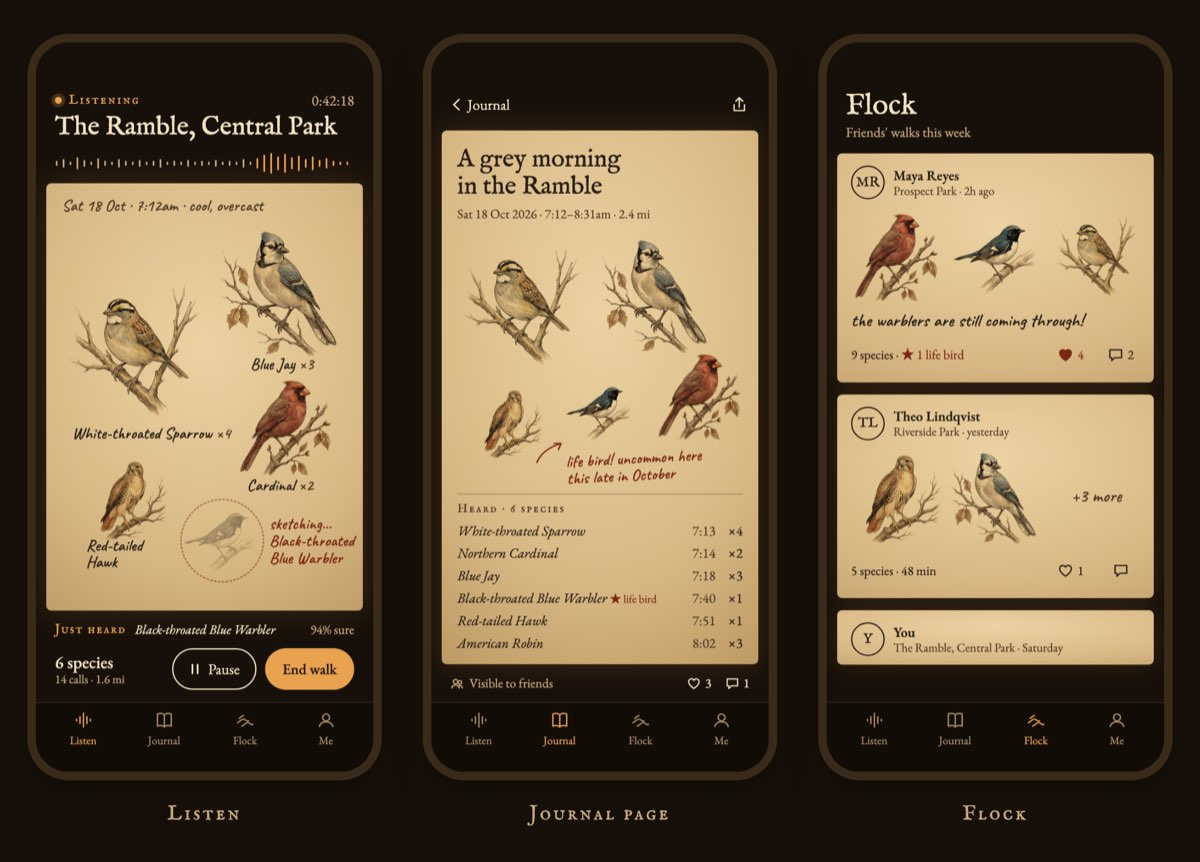
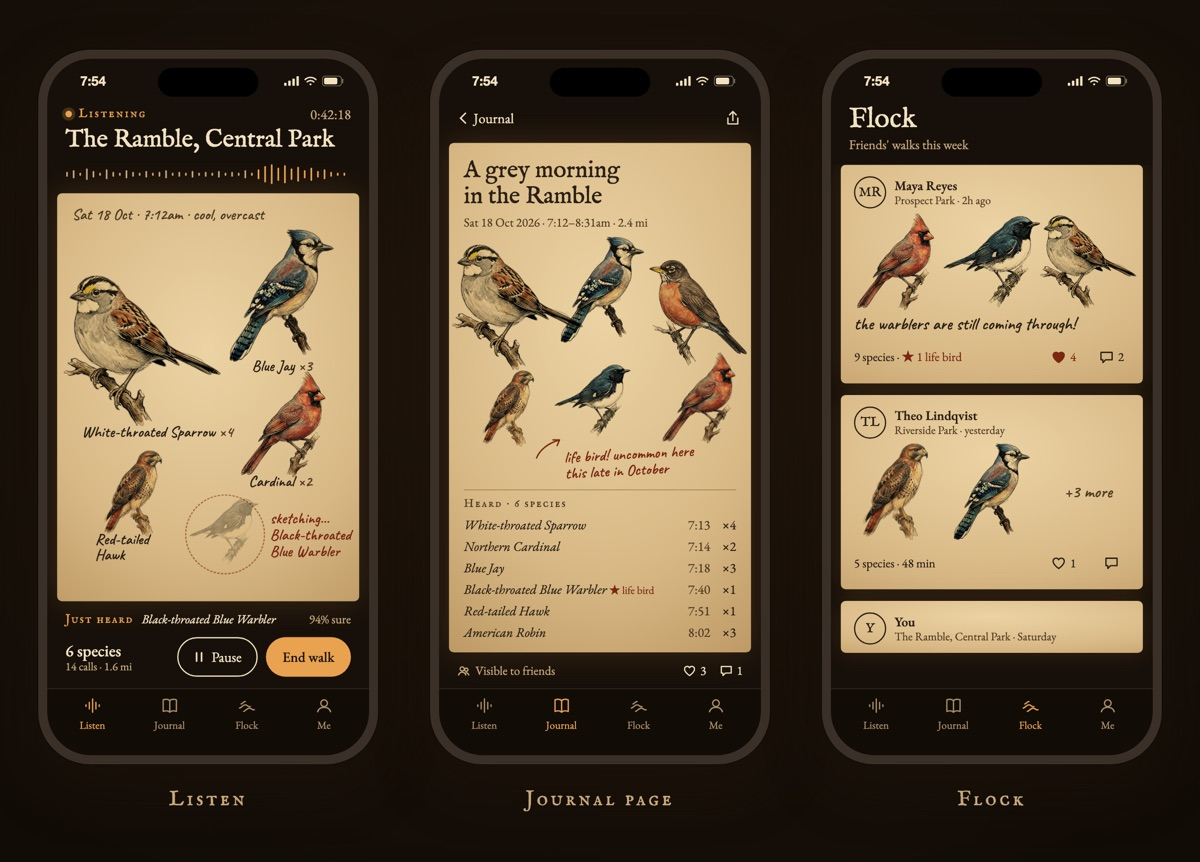
README: new hero and mockup images with the real bird art; plainer wording (#15)
The README images predated the current design: yellowed parchment and the
old trial birds. The new ones use the lightened Parchment theme, By
Candlelight, and the 50 real cutouts from art/birds/cutouts.

- hero-light/dark.jpg: a finished journal page for a morning in the
  Ramble. Birds sized by call count, a red-ink flourish on the rare
  warbler, species list with times.
- mockups-light/dark.jpg: Listen, Journal and Flock rendered from
  design/mockups/*.dc.html with real cutouts in place of the canvas
  blobs. The Journal page now draws the robin it lists.
- README: drop stock phrasing and overclaims, describe the new images in
  alt text, bring Status up to date with todo.md (confidence bar, walk
  flow, SwiftData and bird art are done; the gate is built but off).

Changed region(s): [[0.0, 0.0302, 0.6475, 0.9652], [0.6783, 0.0302, 0.9867, 0.9652], [0.8325, 0.8144, 0.8633, 0.8445]]

diff --git a/README.md b/README.md
@@ -20,27 +20,27 @@
 <p align="center">
   <picture>
     <source media="(prefers-color-scheme: dark)" srcset="docs/assets/hero-dark.jpg">
-    <img src="docs/assets/hero-light.jpg" alt="A journal page on parchment: five hand-drawn birds from a morning walk, each labeled by hand with how many times it was heard, beside a list of the species." width="880">
+    <img src="docs/assets/hero-light.jpg" alt="Journal page for a morning walk in the Ramble, Central Park, on 18 October: six ink-and-watercolor birds with handwritten labels and call counts, the White-throated Sparrow (heard 6 times) drawn largest. A red-ink note beside the Black-throated Blue Warbler reads &quot;life bird! uncommon here this late in October&quot;. A species list with times runs down the left side." width="880">
   </picture>
   <br>
-  <sub>Concept art for a journal page. The bird illustrations are the project's own; the page itself is still being built.</sub>
+  <sub>A design mockup of a journal page, made with the app's own bird drawings. The app doesn't draw this page yet.</sub>
 </p>
 
 ## What it does
 
-Start a walk and put your phone in your pocket. Overheard listens through the microphone and identifies birds by their songs and calls, entirely on the phone. No audio is uploaded, and identifying birds doesn't need a network connection.
+Start a walk and put your phone in your pocket. Overheard listens through the microphone and identifies birds by their songs and calls on the phone itself. No audio is uploaded, and it works without a network connection.
 
-When you get home, the walk becomes a journal page: ink-and-watercolor drawings of every bird you heard, clustered on parchment, each one sized by how many times it sang. A handwritten red-ink note marks anything unusual for the place and season ("uncommon here this late in October"). Friends can follow each other's walks and see what turned up.
+When the walk ends, it becomes a journal page with an ink-and-watercolor drawing of each bird you heard. The more times a bird called, the bigger its drawing. A handwritten red-ink note marks a bird that's unusual for the place and season, such as "uncommon here this late in October". Friends can follow each other's walks.
 
-Overheard is free, made for friends and family, and has no ads or monetization.
+Overheard is free, made for friends and family, and has no ads or paid features.
 
 <p align="center">
   <picture>
     <source media="(prefers-color-scheme: dark)" srcset="docs/assets/mockups-dark.jpg">
-    <img src="docs/assets/mockups-light.jpg" alt="Design mockups of three screens: Listen, showing birds appearing on the page during a walk; the finished Journal page; and Flock, a feed of friends' walks." width="880">
+    <img src="docs/assets/mockups-light.jpg" alt="Three iPhone screens side by side. Listen: a walk in progress, with birds drawn on the page as they're heard and a faint Black-throated Blue Warbler inside a dashed red circle marked &quot;sketching…&quot;. Journal page: the finished walk, six birds above a list of species with times and call counts. Flock: friends' walks as cards, each with a row of their birds." width="880">
   </picture>
   <br>
-  <sub>Design mockups (<a href="design/mockups/">design/mockups/</a>), not screenshots. The app UI today is a plain detection list; this is where it's headed. Shown in the Parchment theme, or By Candlelight if your GitHub is in dark mode.</sub>
+  <sub>Design mockups from <a href="design/mockups/">design/mockups/</a>, not screenshots. The app currently shows a plain list of detections. Shown in the Parchment theme, or By Candlelight if GitHub is in dark mode.</sub>
 </p>
 
 ## How it works
@@ -56,12 +56,12 @@ flowchart LR
     confirm --> page["Journal page<br>size = number of calls"]
 ```
 
-- **Listening.** The app records 3-second clips, overlapping by 2 seconds, so a song that straddles a clip boundary is still heard whole.
-- **Identifying.** Each clip goes through [BirdNET](https://github.com/birdnet-team/BirdNET-Analyzer) v2.4, converted to Core ML and running on the phone in about 21 ms per clip on an iPhone 17 Pro.
-- **Location.** BirdNET's location model, also on the phone, estimates which of the 6,522 species it knows are likely at your position in the current week. That works anywhere in the world, and approximate location is enough.
-- **Confirming.** A species counts once a call is heard in two clips above the threshold, or once in a single clip with confidence of at least 0.70. Until then it is "being sketched" and fades if it isn't confirmed. Detections less than 2.5 s apart merge into one call, so `×3` means three separate songs.
+- **Listening.** The app takes a 3-second clip every second. Clips overlap by 2 seconds, so a song that crosses a clip boundary still fits whole in one clip.
+- **Identifying.** Each clip goes through [BirdNET](https://github.com/birdnet-team/BirdNET-Analyzer) v2.4, converted to Core ML. It takes about 21 ms per clip on an iPhone 17 Pro.
+- **Location.** BirdNET's location model, also on the phone, estimates how likely each of its 6,522 species is at your position in the current week. It works anywhere, and approximate location is enough. Species that are unlikely here need a higher confidence to count.
+- **Confirming.** A species counts once a call is heard in two clips above the threshold, or in one clip with confidence of at least 0.70. Until then it shows as "sketching…" and fades if it isn't confirmed. Detections less than 2.5 s apart merge into one call, so `×3` means three separate songs.
 
-The pipeline lives in a Swift package, [`OverheardKit`](apps/ios/OverheardKit), that runs on both iOS and macOS. The same code powers the app and the evaluation tool, so anything measured on the Mac carries over to the phone exactly.
+The pipeline is a Swift package, [`OverheardKit`](apps/ios/OverheardKit), that builds for iOS and macOS. The app and the evaluation tool run the same code, so the eval measures what ships.
 
 ## Detection quality
 
@@ -75,24 +75,25 @@ The pipeline lives in a Swift package, [`OverheardKit`](apps/ios/OverheardKit), 
 | City noise louder than the bird (−5 dB) | 75.5% | 86.5% | 0.12 |
 | Clean, location filter **off** | 79.1% | 67.4% | 0.38 |
 
-The location filter is worth about 16 points of precision: without it, most wrong answers are lookalike species from other continents.
+The location filter adds about 16 points of precision. Without it, most wrong answers are similar-sounding species from other continents.
 
-These numbers are probably optimistic. xeno-canto recordings are likely part of BirdNET's training data, and they're cleaner than a real walk through a park. Field testing is still to come. The full history of each change and its effect is in [ml/eval/README.md](ml/eval/README.md).
+These numbers are probably optimistic. xeno-canto recordings are likely part of BirdNET's training data, and they're cleaner than a real walk through a park. Field tests haven't happened yet. [ml/eval/README.md](ml/eval/README.md) records each change and what it did to these numbers.
 
 ## Status
 
-Overheard is early. Here's an honest picture, kept in sync with [todo.md](todo.md):
+Overheard is early. [todo.md](todo.md) has the full plan.
 
 **Working today**
-- On-device detection: audio capture, BirdNET audio and location models in Core ML, overlapping clips, call merging and confirmation.
-- Listening continues with the screen locked, through phone calls and when AirPods connect or disconnect (basic handling, still being verified on device).
+- On-device detection: audio capture, BirdNET audio and location models in Core ML, overlapping clips, call merging and confirmation, and a higher confidence bar for species that are unlikely at your location.
+- Listening continues with the screen locked, through phone calls and when AirPods connect or disconnect (basic handling, not yet verified on a device).
+- Starting and ending a walk, recording the route, and saving walks on the phone with SwiftData.
+- Drawings of 50 birds commonly heard in Central Park ([art/birds/](art/birds/)).
 - An evaluation harness that measures every change to detection quality.
 - CI: unit tests, an unsigned iOS build, and Python lint.
 
 **Next**
-- Better detection: a confidence bar that rises for species that are unlikely at your location, and an adaptive noise gate.
-- The walk flow, saving walks on the phone (SwiftData), the parchment UI and the journal page, with the "being sketched" reveal and rare-bird notes.
-- Field tests in Central Park, and battery measurements.
+- The parchment UI and the journal page, with the "sketching…" reveal and rare-bird notes.
+- Field tests in Central Park, and battery measurements. An adaptive noise gate is built but stays off until battery use is measured.
 
 **Later**
 - A small backend on Cloudflare Workers (Hono, D1, R2) with Sign in with Apple.
@@ -144,7 +145,7 @@ The eval needs its recordings first; [ml/eval/README.md](ml/eval/README.md) expl
 
 ## Contributing
 
-Contributions and bug reports are welcome. It's a small project, so for anything larger than a fix, please open an issue first to talk it over.
+Bug reports and pull requests are welcome. For anything bigger than a fix, please open an issue first.
 
 - Work on a branch (`feat/…`, `fix/…`, `docs/…`) and open a pull request against `main`. CI runs on every PR.
 - Format before committing:
@@ -155,14 +156,14 @@ Contributions and bug reports are welcome. It's a small project, so for anything
 - Detection logic goes in `OverheardKit` with unit tests. Measure quality changes with `overheard-eval` and include the before and after numbers in the PR.
 - UI follows [docs/design.md](docs/design.md): its colors, fonts, and rules for laying out birds on the page.
 
-[AGENTS.md](AGENTS.md) is the full guide for humans and coding agents alike, and [docs/decisions.md](docs/decisions.md) records why things are the way they are.
+[AGENTS.md](AGENTS.md) has the full conventions, for people and coding agents. [docs/decisions.md](docs/decisions.md) records each decision and the reason for it.
 
 ## Credits
 
-- **[BirdNET](https://github.com/birdnet-team/BirdNET-Analyzer)** by the K. Lisa Yang Center for Conservation Bioacoustics at the Cornell Lab of Ornithology and Chemnitz University of Technology. Overheard would not exist without it.
+- **[BirdNET](https://github.com/birdnet-team/BirdNET-Analyzer)** by the K. Lisa Yang Center for Conservation Bioacoustics at the Cornell Lab of Ornithology and Chemnitz University of Technology. Both detection models are converted from BirdNET v2.4.
 - **Species names and codes** from the [eBird/Clements taxonomy](https://ebird.org).
 - **Evaluation data** from [xeno-canto](https://xeno-canto.org) recordists and the [ESC-50](https://github.com/karolpiczak/ESC-50) environmental sound dataset.
-- **Bird illustrations** were generated for this project with Gemini 3 Pro Image ([art/model-comparison/](art/model-comparison/)).
+- **Bird illustrations** were generated for this project with Gemini 3 Pro Image and cut out to transparent PNGs ([art/birds/](art/birds/)).
 - **Fonts** in the design and logo: IM FELL English by Igino Marini, EB Garamond and Caveat, all under the SIL Open Font License.
 - **Inspired by** [AvianVisitors](https://theodore.net/projects/AvianVisitors/).
 
